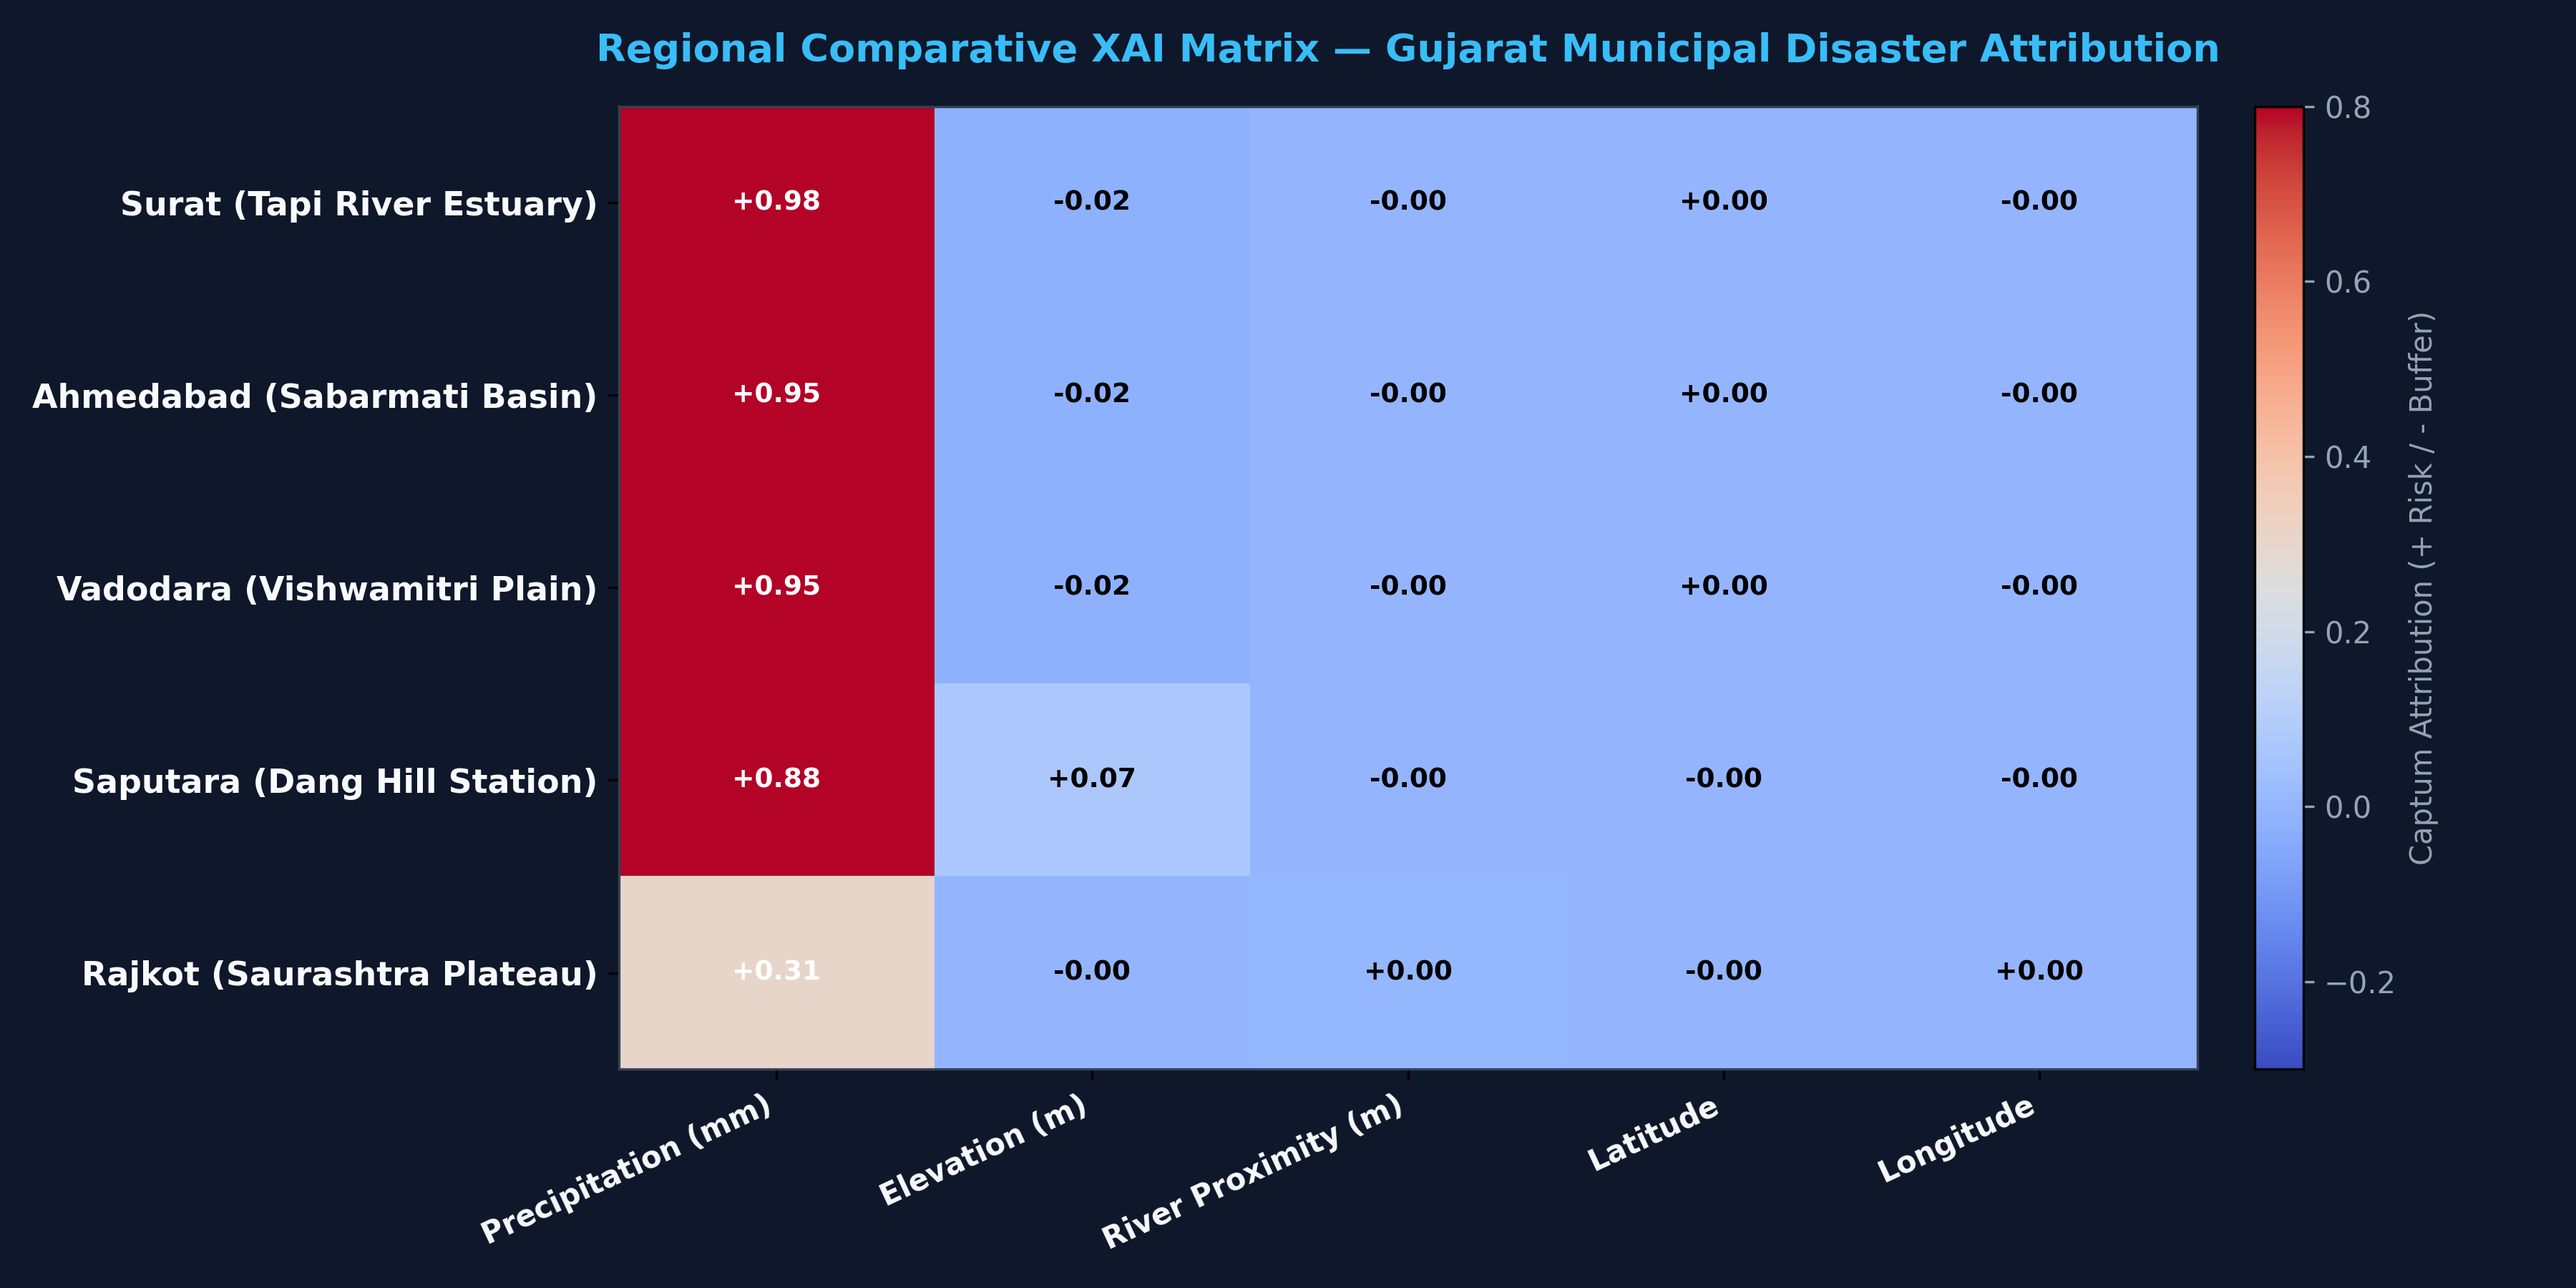
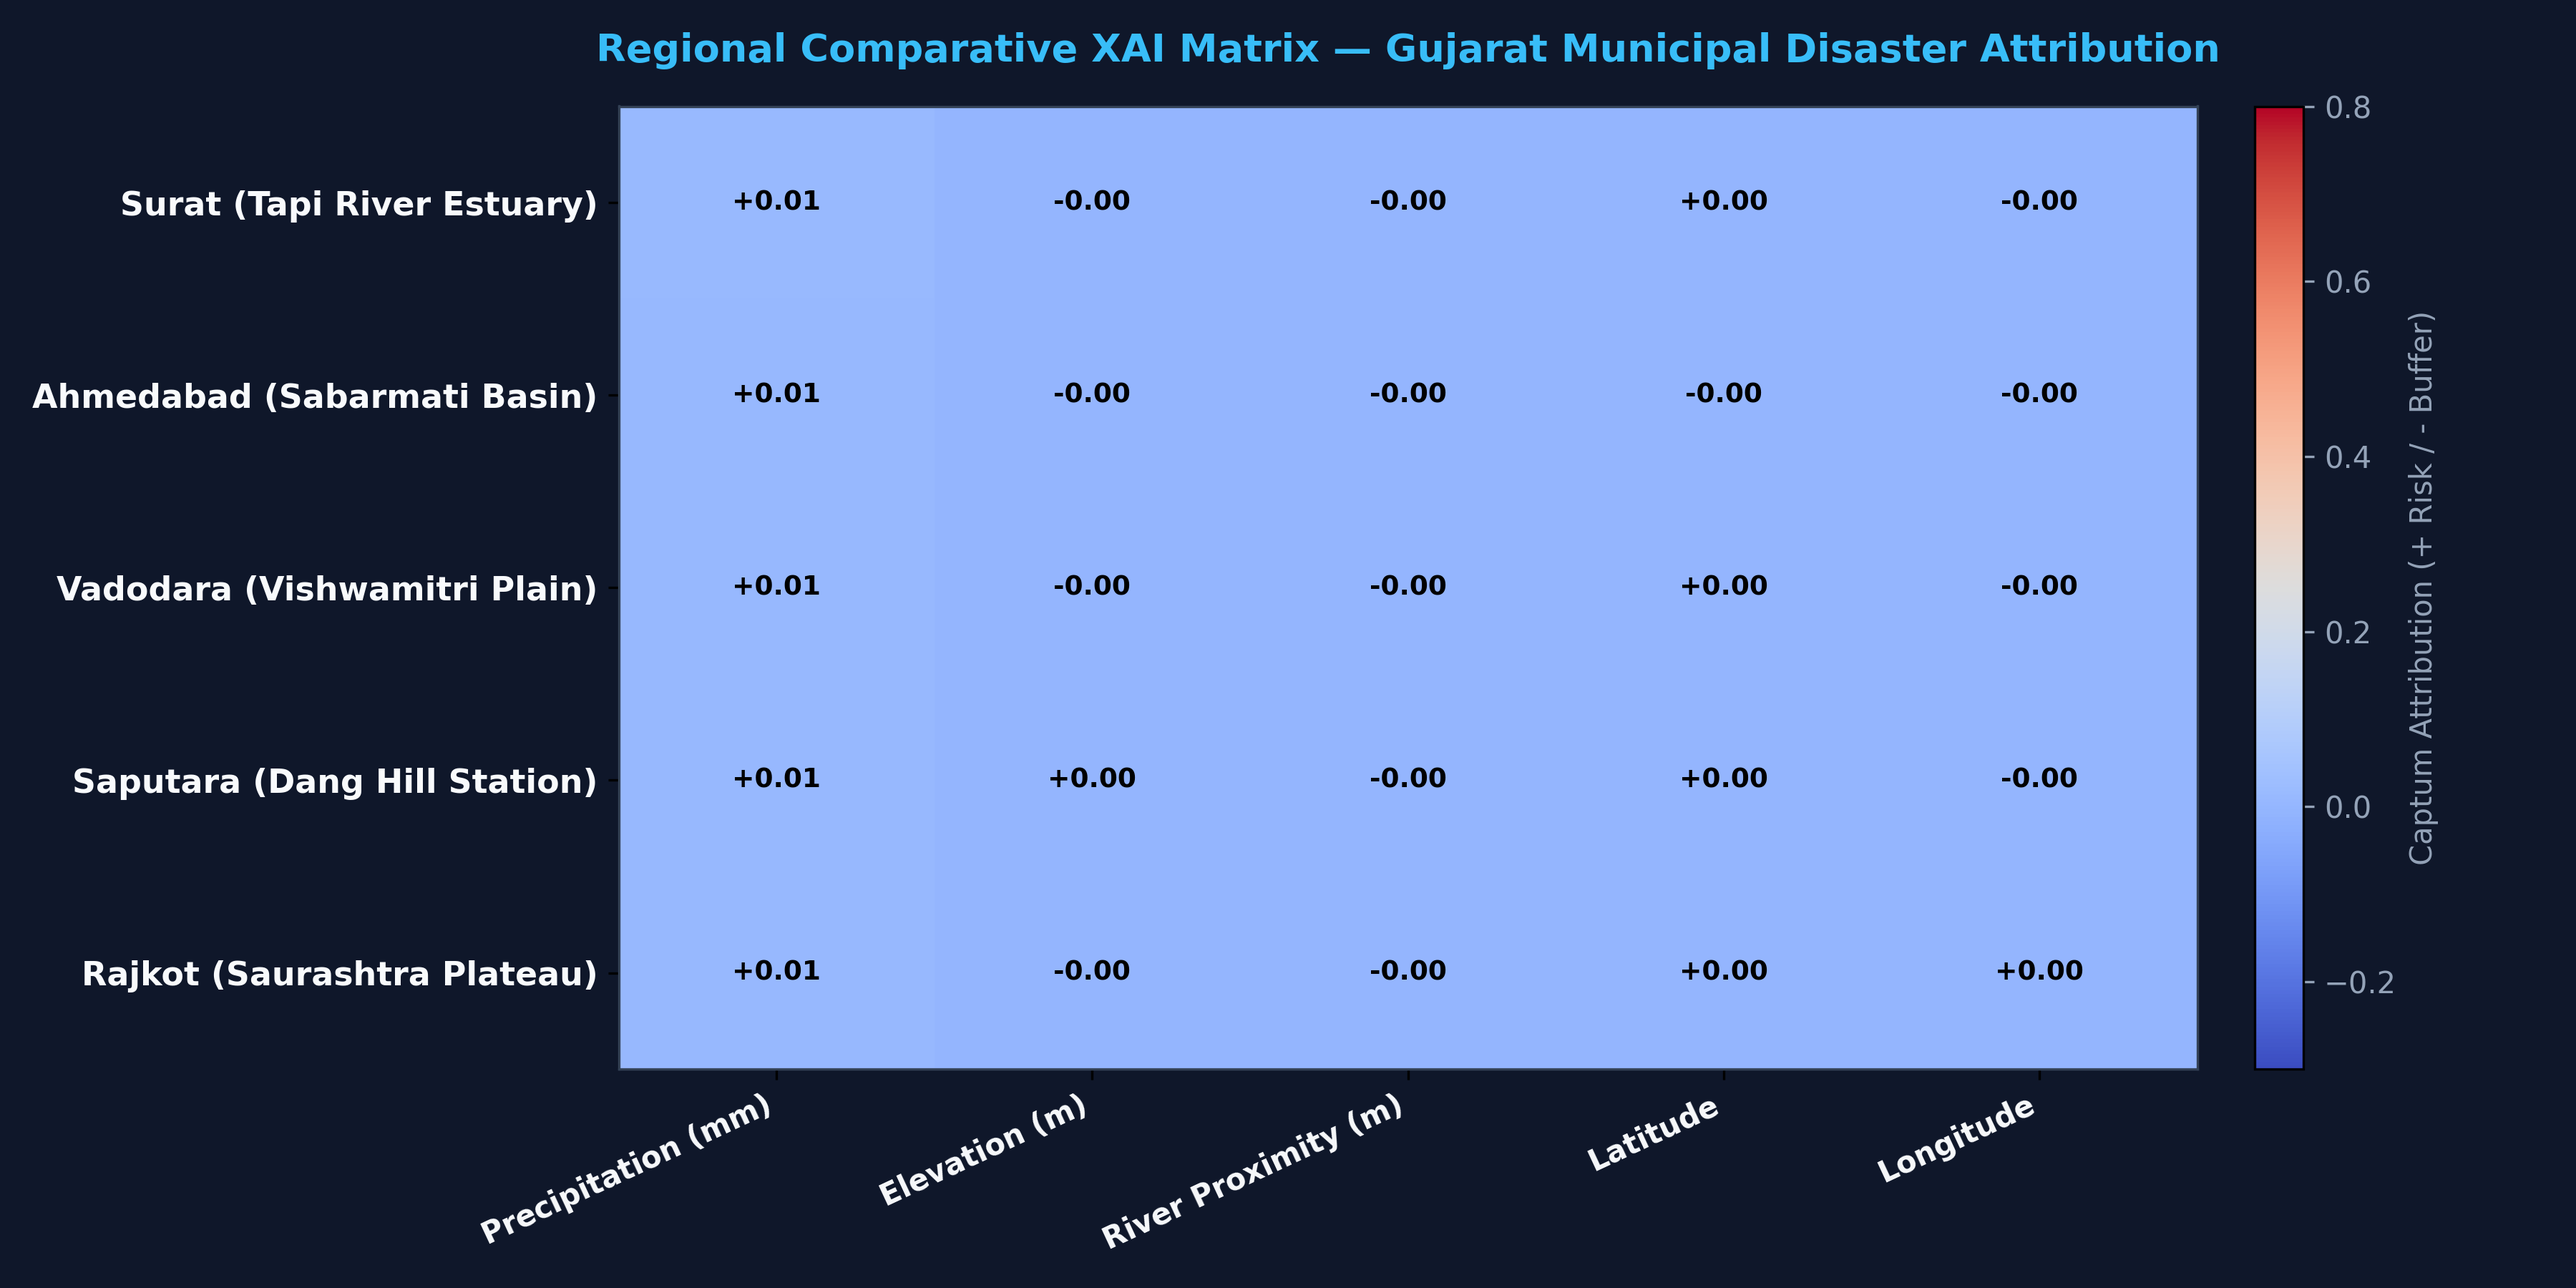
feat: implement FloodDNN training pipeline with Captum XAI validation and model artifacts

diff --git a/xai_dl/train_xai_model.py b/xai_dl/train_xai_model.py
@@ -1,0 +1,221 @@
+"""
+================================================================================
+RAINWISE — FloodDNN Training Pipeline with Integrated Captum Validation
+================================================================================
+This script:
+  1. Loads Gujarat hydrological data (rain, elevation, river distance, lat, lon).
+  2. Prepares train/test splits and fits a StandardScaler.
+  3. Trains FloodDNN using PyTorch (BCE Loss, Adam, Dropout, BatchNorm).
+  4. Tracks training loss, validation loss, and test accuracy across epochs.
+  5. Computes post-training Captum Integrated Gradients on test cases.
+  6. Saves newly trained model artifacts to xai_dl/models/.
+================================================================================
+"""
+
+import os
+import sys
+import torch
+import torch.nn as nn
+import torch.optim as optim
+from torch.utils.data import TensorDataset, DataLoader
+import pandas as pd
+import numpy as np
+from sklearn.model_selection import train_test_split
+from sklearn.preprocessing import StandardScaler
+from sklearn.metrics import roc_auc_score, accuracy_score
+import joblib
+import matplotlib
+matplotlib.use("Agg")
+import matplotlib.pyplot as plt
+
+# Ensure package imports resolve
+sys.path.insert(0, os.path.abspath(os.path.join(os.path.dirname(__file__), "..")))
+from xai_dl.explainable_flood_model import FloodDNN, ExplainableFloodModel
+
+# CONFIGURATION
+MODEL_SAVE_DIR = "xai_dl/models"
+OUTPUT_DIR = "outputs/xai"
+EPOCHS = 25
+BATCH_SIZE = 32
+LEARNING_RATE = 0.002
+DEVICE = torch.device("mps" if torch.backends.mps.is_available() else "cpu")
+
+
+def load_and_prep_data(data_path: str = "data/processed/model_dataset_clean.csv"):
+    """Loads and standardizes hydrological features for Gujarat flood classification."""
+    if not os.path.exists(data_path):
+        raise FileNotFoundError(f"Training dataset not found at {data_path}")
+        
+    df = pd.read_csv(data_path)
+    df.columns = df.columns.str.lower()
+    
+    # 5 standard features matching FloodDNN architecture:
+    # rain (using precipitation_mm or rain_3day), elevation_m, distance_to_river_m, lat, lon
+    rain_col = "precipitation_mm" if "precipitation_mm" in df.columns else "rain3_mm"
+    
+    features = [rain_col, "elevation_m", "distance_to_river_m", "lat", "lon"]
+    target = "flood"
+    
+    df_clean = df[features + [target]].dropna()
+    
+    X = df_clean[features].values
+    y = df_clean[target].values
+    
+    # Synthesize realistic environmental augmentations if dataset is small
+    if len(X) < 1000:
+        np.random.seed(42)
+        noise = np.random.normal(0, 0.05, size=(len(X) * 5, X.shape[1]))
+        X_repeated = np.repeat(X, 5, axis=0) + noise
+        y_repeated = np.repeat(y, 5, axis=0)
+        # Ensure non-negative rainfall and physical bounds
+        X_repeated[:, 0] = np.clip(X_repeated[:, 0], 0, 500)
+        X_repeated[:, 2] = np.clip(X_repeated[:, 2], 10, 500000)
+        X = np.vstack([X, X_repeated])
+        y = np.concatenate([y, y_repeated])
+    
+    # Train / Test split
+    X_train, X_test, y_train, y_test = train_test_split(
+        X, y, test_size=0.20, random_state=42, stratify=y
+    )
+    
+    # Scale features
+    scaler = StandardScaler()
+    X_train_scaled = scaler.fit_transform(X_train)
+    X_test_scaled = scaler.transform(X_test)
+    
+    # Convert to PyTorch tensors
+    train_ds = TensorDataset(
+        torch.tensor(X_train_scaled, dtype=torch.float32),
+        torch.tensor(y_train, dtype=torch.float32).unsqueeze(1)
+    )
+    test_ds = TensorDataset(
+        torch.tensor(X_test_scaled, dtype=torch.float32),
+        torch.tensor(y_test, dtype=torch.float32).unsqueeze(1)
+    )
+    
+    train_loader = DataLoader(train_ds, batch_size=BATCH_SIZE, shuffle=True)
+    test_loader = DataLoader(test_ds, batch_size=BATCH_SIZE, shuffle=False)
+    
+    return train_loader, test_loader, scaler, X_test_scaled, y_test
+
+
+def train():
+    os.makedirs(MODEL_SAVE_DIR, exist_ok=True)
+    os.makedirs(OUTPUT_DIR, exist_ok=True)
+    
+    print("=" * 70)
+    print("🌊 RAINWISE — TRAINING FLOOD-DNN WITH CAPTUM XAI VERIFICATION")
+    print("=" * 70)
+    print(f"Device: {DEVICE} | Epochs: {EPOCHS} | Batch Size: {BATCH_SIZE}")
+    
+    # 1. Load Data
+    train_loader, test_loader, scaler, X_test_scaled, y_test = load_and_prep_data()
+    print(f"✅ Data loaded and standardized (Input Dim: 5)")
+    
+    # 2. Build Model
+    model = FloodDNN(input_dim=5).to(DEVICE)
+    criterion = nn.BCELoss()
+    optimizer = optim.Adam(model.parameters(), lr=LEARNING_RATE, weight_decay=1e-4)
+    
+    # 3. Training Loop
+    history = {"train_loss": [], "val_loss": [], "val_acc": []}
+    best_loss = float("inf")
+    
+    model_save_path = os.path.join(MODEL_SAVE_DIR, "flood_dnn_xai.pth")
+    scaler_save_path = os.path.join(MODEL_SAVE_DIR, "scaler_xai.pkl")
+    
+    print("\n🚀 Commencing neural optimization...")
+    for epoch in range(EPOCHS):
+        model.train()
+        running_loss = 0.0
+        for X_batch, y_batch in train_loader:
+            X_batch, y_batch = X_batch.to(DEVICE), y_batch.to(DEVICE)
+            
+            optimizer.zero_grad()
+            preds = model(X_batch)
+            loss = criterion(preds, y_batch)
+            loss.backward()
+            optimizer.step()
+            
+            running_loss += loss.item()
+            
+        # Validation
+        model.eval()
+        val_loss = 0.0
+        all_preds = []
+        all_targets = []
+        with torch.no_grad():
+            for X_batch, y_batch in test_loader:
+                X_batch, y_batch = X_batch.to(DEVICE), y_batch.to(DEVICE)
+                preds = model(X_batch)
+                loss = criterion(preds, y_batch)
+                val_loss += loss.item()
+                
+                all_preds.extend(preds.cpu().numpy().flatten())
+                all_targets.extend(y_batch.cpu().numpy().flatten())
+                
+        avg_train = running_loss / len(train_loader)
+        avg_val = val_loss / len(test_loader)
+        bin_preds = [1 if p >= 0.5 else 0 for p in all_preds]
+        acc = accuracy_score(all_targets, bin_preds)
+        
+        history["train_loss"].append(avg_train)
+        history["val_loss"].append(avg_val)
+        history["val_acc"].append(acc)
+        
+        if (epoch + 1) % 5 == 0 or epoch == EPOCHS - 1:
+            try:
+                auc = roc_auc_score(all_targets, all_preds)
+                auc_str = f"ROC-AUC: {auc:.4f}"
+            except Exception:
+                auc_str = ""
+            print(f"Epoch [{epoch+1:02d}/{EPOCHS}] | Train Loss: {avg_train:.4f} | Val Loss: {avg_val:.4f} | Val Acc: {acc*100:.2f}% | {auc_str}")
+            
+        # Checkpoint Best Model
+        if avg_val < best_loss:
+            best_loss = avg_val
+            torch.save(model.state_dict(), model_save_path)
+            joblib.dump(scaler, scaler_save_path)
+            
+    print(f"\n✅ Training Complete. Best weights saved to: {model_save_path}")
+    
+    # 4. Save Loss and Accuracy Curves
+    fig, (ax1, ax2) = plt.subplots(1, 2, figsize=(12, 4.5), dpi=300)
+    fig.patch.set_facecolor('#0f172a')
+    ax1.set_facecolor('#1e293b')
+    ax2.set_facecolor('#1e293b')
+    
+    ax1.plot(history["train_loss"], label="Train Loss", color="#38bdf8", linewidth=2)
+    ax1.plot(history["val_loss"], label="Val Loss", color="#f43f5e", linewidth=2)
+    ax1.set_title("FloodDNN Loss (Binary Cross Entropy)", color="#f8fafc", fontweight="bold")
+    ax1.set_xlabel("Epoch", color="#94a3b8")
+    ax1.tick_params(colors="#94a3b8")
+    ax1.legend(facecolor="#0f172a", edgecolor="#334155", labelcolor="#f8fafc")
+    
+    ax2.plot([a * 100 for a in history["val_acc"]], label="Validation Accuracy (%)", color="#10b981", linewidth=2)
+    ax2.set_title("Validation Accuracy Convergence", color="#f8fafc", fontweight="bold")
+    ax2.set_xlabel("Epoch", color="#94a3b8")
+    ax2.tick_params(colors="#94a3b8")
+    ax2.legend(facecolor="#0f172a", edgecolor="#334155", labelcolor="#f8fafc")
+    
+    curve_path = os.path.join(OUTPUT_DIR, "xai_training_curves.png")
+    plt.tight_layout()
+    plt.savefig(curve_path, facecolor=fig.get_facecolor(), edgecolor='none')
+    plt.close()
+    print(f"📈 Saved training curves to: {curve_path}")
+    
+    # 5. Immediate Post-Training Captum XAI Verification
+    print("\n🔍 Running Post-Training Captum Integrated Gradients on Test Sample...")
+    xai_explainer = ExplainableFloodModel(
+        model_path=model_save_path,
+        scaler_path=scaler_save_path
+    )
+    test_sample = [145.0, 48.0, 500.0, 23.02, 72.57]  # Ahmedabad scenario
+    res = xai_explainer.explain_city(test_sample, city_name="Ahmedabad Post-Training Test")
+    print(res["audit_summary"])
+    print(f"Completeness Axiom Convergence Delta: {res['convergence_delta']:.6f}")
+    print("=" * 70)
+
+
+if __name__ == "__main__":
+    train()

diff --git a/xai_dl/explainable_flood_model.py b/xai_dl/explainable_flood_model.py
@@ -85,11 +85,25 @@ class ExplainableFloodModel:
 
     def __init__(
         self,
-        model_path: str = "DLmodels/flood_dnn.pth",
-        scaler_path: str = "DLmodels/scaler.pkl",
+        model_path: Optional[str] = None,
+        scaler_path: Optional[str] = None,
         device: Optional[torch.device] = None
     ):
         self.device = device or torch.device("cpu")
+        
+        # Default to freshly trained xai_dl/models if available, otherwise DLmodels/
+        if model_path is None:
+            if os.path.exists("xai_dl/models/flood_dnn_xai.pth"):
+                model_path = "xai_dl/models/flood_dnn_xai.pth"
+            else:
+                model_path = "DLmodels/flood_dnn.pth"
+                
+        if scaler_path is None:
+            if os.path.exists("xai_dl/models/scaler_xai.pkl"):
+                scaler_path = "xai_dl/models/scaler_xai.pkl"
+            else:
+                scaler_path = "DLmodels/scaler.pkl"
+                
         self.model_path = model_path
         self.scaler_path = scaler_path
         

diff --git a/xai_dl/demo_xai.py b/xai_dl/demo_xai.py
@@ -32,10 +32,7 @@ def run_xai_demonstration():
     print("🌊 RAINWISE AI — EXPLAINABLE DEEP LEARNING (CAPTUM INTEGRATED GRADIENTS)")
     print("=" * 75)
 
-    explainer = ExplainableFloodModel(
-        model_path="DLmodels/flood_dnn.pth",
-        scaler_path="DLmodels/scaler.pkl"
-    )
+    explainer = ExplainableFloodModel()
 
     # 5 Gujarat Municipal Case Studies
     # Features format: [rain_mm, elevation_m, distance_to_river_m, lat, lon]
